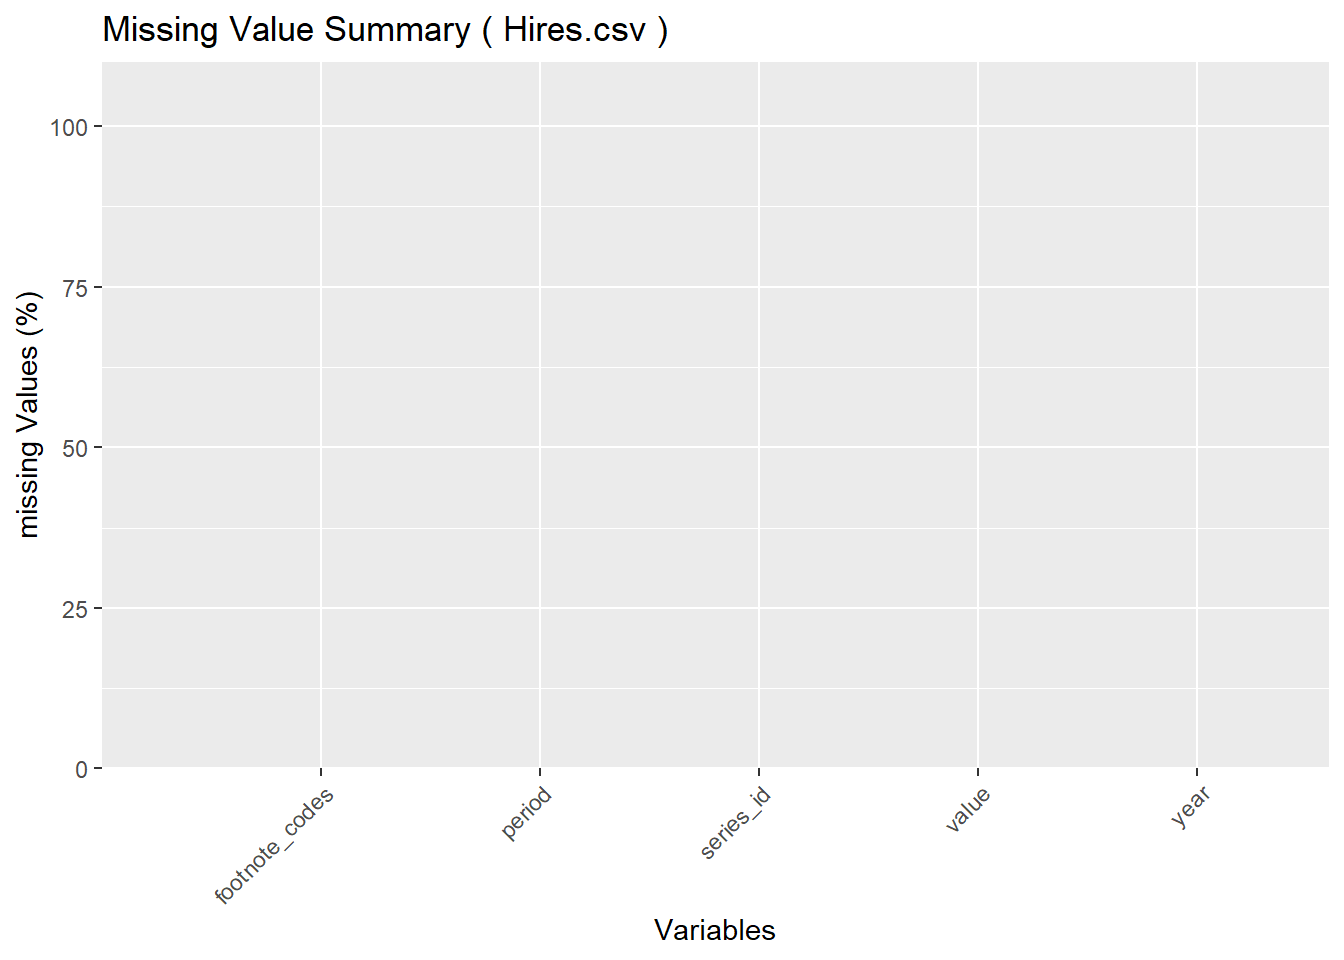
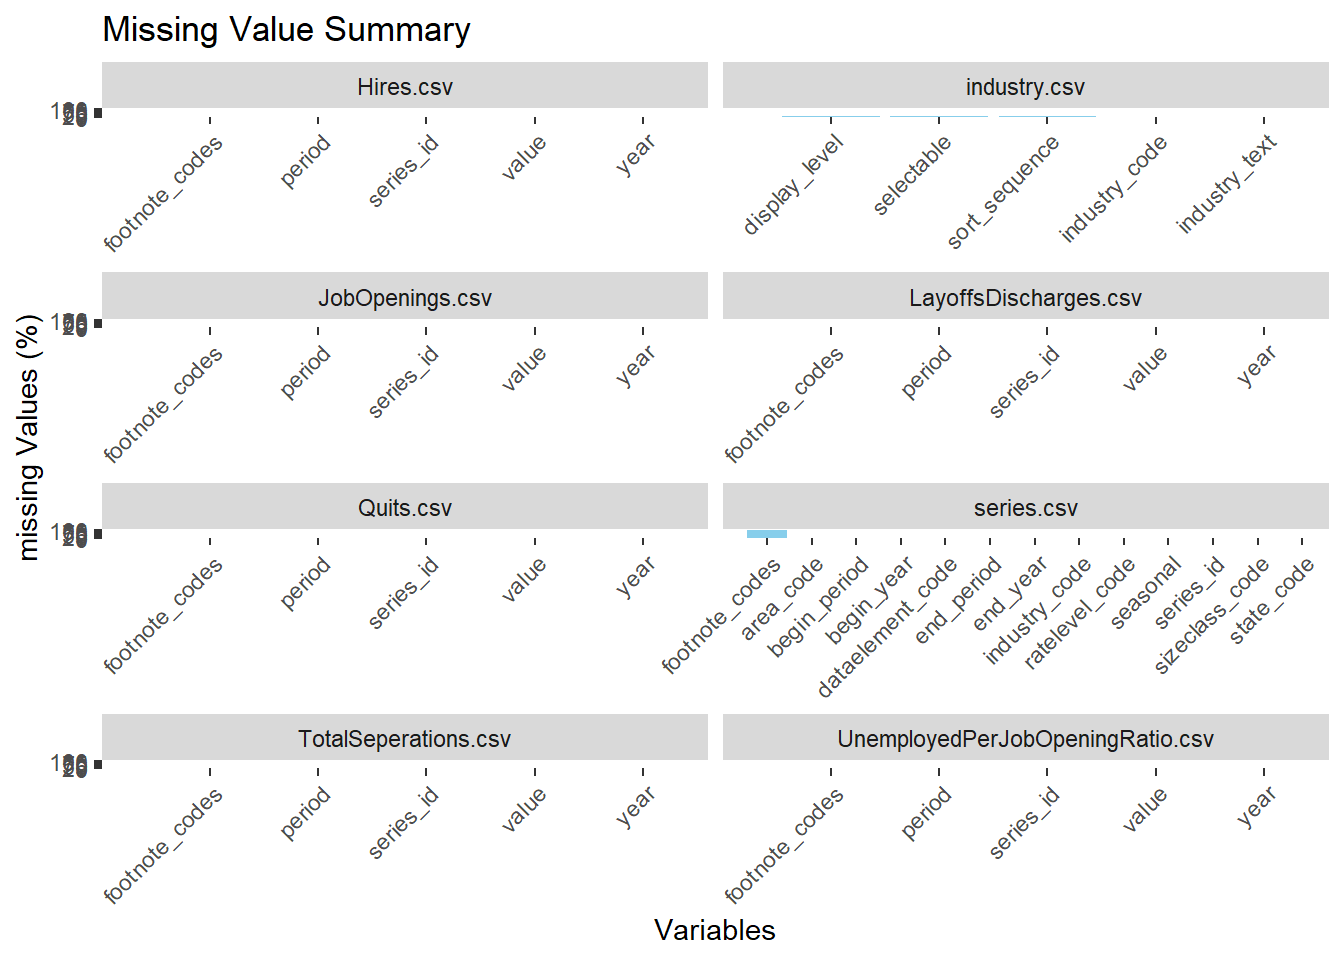
updated render size

diff --git a/docs/data.html b/docs/data.html
@@ -230,7 +230,7 @@ pre > code.sourceCode > span > a:first-child::before { text-decoration: underlin
 <li><p><strong>Data Collection</strong>: As, the dataset is divide into different files, containing job openings, hires, separations, and industry specifics, we collect the files and convert into csv format for further analysis.</p></li>
 <li><p><strong>Preprocessing</strong>: Cleaning and organizing the data. Here we also analyse any missing values in our dataset.</p></li>
 <li><p><strong>Exploratory Analysis</strong>: Identify trends, patterns, and correlations in job data across industries and regions.</p></li>
-<li><p><strong>Addressing Research Questions</strong>:</p>
+<li><p><strong>Addressing Research Questions</strong>: We merge our dataset files to uncover significant trends and relationships among various job analysis metrics. We plan to observe the following:</p>
 <ul>
 <li><strong>Industry Insights</strong>: Identify high-demand industries aligning with skills.</li>
 <li><strong>Regional Variations</strong>: Map job trends across regions for better prospects.</li>
@@ -249,74 +249,47 @@ pre > code.sourceCode > span > a:first-child::before { text-decoration: underlin
 <div class="cell">
 <details>
 <summary>Code</summary>
-<div class="sourceCode cell-code" id="cb1"><pre class="sourceCode r code-with-copy"><code class="sourceCode r"><span id="cb1-1"><a href="#cb1-1" aria-hidden="true" tabindex="-1"></a><span class="fu">library</span>(tidyverse)</span></code><button title="Copy to Clipboard" class="code-copy-button"><i class="bi"></i></button></pre></div>
-</details>
-<div class="cell-output cell-output-stderr">
-<pre><code>── Attaching core tidyverse packages ──────────────────────── tidyverse 2.0.0 ──
-✔ dplyr     1.1.3     ✔ readr     2.1.4
-✔ forcats   1.0.0     ✔ stringr   1.5.0
-✔ ggplot2   3.4.3     ✔ tibble    3.2.1
-✔ lubridate 1.9.2     ✔ tidyr     1.3.0
-✔ purrr     1.0.2     
-── Conflicts ────────────────────────────────────────── tidyverse_conflicts() ──
-✖ dplyr::filter() masks stats::filter()
-✖ dplyr::lag()    masks stats::lag()
-ℹ Use the conflicted package (&lt;http://conflicted.r-lib.org/&gt;) to force all conflicts to become errors</code></pre>
-</div>
-<details>
-<summary>Code</summary>
-<div class="sourceCode cell-code" id="cb3"><pre class="sourceCode r code-with-copy"><code class="sourceCode r"><span id="cb3-1"><a href="#cb3-1" aria-hidden="true" tabindex="-1"></a>folder_path <span class="ot">&lt;-</span> <span class="st">"./data"</span></span>
-<span id="cb3-2"><a href="#cb3-2" aria-hidden="true" tabindex="-1"></a></span>
-<span id="cb3-3"><a href="#cb3-3" aria-hidden="true" tabindex="-1"></a>csv_files <span class="ot">&lt;-</span> <span class="fu">list.files</span>(folder_path, <span class="at">pattern =</span> <span class="st">"</span><span class="sc">\\</span><span class="st">.csv$"</span>, <span class="at">full.names =</span> <span class="cn">TRUE</span>)</span>
-<span id="cb3-4"><a href="#cb3-4" aria-hidden="true" tabindex="-1"></a></span>
-<span id="cb3-5"><a href="#cb3-5" aria-hidden="true" tabindex="-1"></a><span class="cf">for</span> (file <span class="cf">in</span> csv_files) {</span>
-<span id="cb3-6"><a href="#cb3-6" aria-hidden="true" tabindex="-1"></a>  data <span class="ot">&lt;-</span> <span class="fu">read.csv</span>(file)</span>
-<span id="cb3-7"><a href="#cb3-7" aria-hidden="true" tabindex="-1"></a></span>
-<span id="cb3-8"><a href="#cb3-8" aria-hidden="true" tabindex="-1"></a>  csv_file_name <span class="ot">&lt;-</span> <span class="fu">strsplit</span>(file, <span class="st">"/"</span>)[[<span class="dv">1</span>]][<span class="dv">3</span>]</span>
-<span id="cb3-9"><a href="#cb3-9" aria-hidden="true" tabindex="-1"></a>  <span class="co"># print(csv_file_name)</span></span>
-<span id="cb3-10"><a href="#cb3-10" aria-hidden="true" tabindex="-1"></a></span>
-<span id="cb3-11"><a href="#cb3-11" aria-hidden="true" tabindex="-1"></a>  missing_summary <span class="ot">&lt;-</span> data <span class="sc">%&gt;%</span></span>
-<span id="cb3-12"><a href="#cb3-12" aria-hidden="true" tabindex="-1"></a>    <span class="fu">summarise_all</span>(<span class="sc">~</span> <span class="fu">mean</span>(<span class="fu">is.na</span>(.)) <span class="sc">*</span> <span class="dv">100</span>) <span class="sc">%&gt;%</span></span>
-<span id="cb3-13"><a href="#cb3-13" aria-hidden="true" tabindex="-1"></a>    <span class="fu">gather</span>(<span class="at">key =</span> <span class="st">"variable"</span>, <span class="at">value =</span> <span class="st">"missing_percentage"</span>) <span class="sc">%&gt;%</span></span>
-<span id="cb3-14"><a href="#cb3-14" aria-hidden="true" tabindex="-1"></a>    <span class="fu">arrange</span>(<span class="fu">desc</span>(missing_percentage))</span>
-<span id="cb3-15"><a href="#cb3-15" aria-hidden="true" tabindex="-1"></a></span>
-<span id="cb3-16"><a href="#cb3-16" aria-hidden="true" tabindex="-1"></a>  missing_value_graph <span class="ot">&lt;-</span> <span class="fu">ggplot</span>(missing_summary, <span class="fu">aes</span>(<span class="at">x =</span> <span class="fu">reorder</span>(variable, <span class="sc">-</span>missing_percentage), <span class="at">y =</span> missing_percentage)) <span class="sc">+</span></span>
-<span id="cb3-17"><a href="#cb3-17" aria-hidden="true" tabindex="-1"></a>    <span class="fu">geom_bar</span>(<span class="at">stat =</span> <span class="st">"identity"</span>, <span class="at">fill =</span> <span class="st">"skyblue"</span>, <span class="at">width=</span><span class="fl">0.5</span>) <span class="sc">+</span></span>
-<span id="cb3-18"><a href="#cb3-18" aria-hidden="true" tabindex="-1"></a>    <span class="fu">geom_text</span>(<span class="at">data =</span> <span class="fu">subset</span>(missing_summary, missing_percentage <span class="sc">!=</span> <span class="dv">0</span>),</span>
-<span id="cb3-19"><a href="#cb3-19" aria-hidden="true" tabindex="-1"></a>              <span class="fu">aes</span>(<span class="at">label =</span> <span class="fu">round</span>(missing_percentage, <span class="dv">1</span>)), <span class="at">vjust =</span> <span class="sc">-</span><span class="fl">0.5</span>, <span class="at">size =</span> <span class="dv">3</span>) <span class="sc">+</span></span>
-<span id="cb3-20"><a href="#cb3-20" aria-hidden="true" tabindex="-1"></a>    <span class="fu">labs</span>(<span class="at">title =</span> <span class="fu">paste</span>(<span class="st">"Missing Value Summary ("</span>, csv_file_name,<span class="st">")"</span>),</span>
-<span id="cb3-21"><a href="#cb3-21" aria-hidden="true" tabindex="-1"></a>         <span class="at">x =</span> <span class="st">"Variables"</span>,</span>
-<span id="cb3-22"><a href="#cb3-22" aria-hidden="true" tabindex="-1"></a>         <span class="at">y =</span> <span class="st">"missing Values (%)"</span>)<span class="sc">+</span></span>
-<span id="cb3-23"><a href="#cb3-23" aria-hidden="true" tabindex="-1"></a>    <span class="fu">theme</span>(<span class="at">axis.text.x =</span> <span class="fu">element_text</span>(<span class="at">angle =</span> <span class="dv">45</span>, <span class="at">hjust =</span> <span class="dv">1</span>))<span class="sc">+</span></span>
-<span id="cb3-24"><a href="#cb3-24" aria-hidden="true" tabindex="-1"></a>    <span class="fu">expand_limits</span>(<span class="at">x =</span> <span class="dv">0</span>, <span class="at">y =</span> <span class="dv">110</span>)<span class="sc">+</span></span>
-<span id="cb3-25"><a href="#cb3-25" aria-hidden="true" tabindex="-1"></a>    <span class="fu">scale_y_continuous</span>(<span class="at">expand =</span><span class="fu">c</span>(<span class="dv">0</span>,<span class="dv">0</span>))</span>
-<span id="cb3-26"><a href="#cb3-26" aria-hidden="true" tabindex="-1"></a></span>
-<span id="cb3-27"><a href="#cb3-27" aria-hidden="true" tabindex="-1"></a>  <span class="fu">print</span>(missing_value_graph )</span>
-<span id="cb3-28"><a href="#cb3-28" aria-hidden="true" tabindex="-1"></a>}</span></code><button title="Copy to Clipboard" class="code-copy-button"><i class="bi"></i></button></pre></div>
+<div class="sourceCode cell-code" id="cb1"><pre class="sourceCode r code-with-copy"><code class="sourceCode r"><span id="cb1-1"><a href="#cb1-1" aria-hidden="true" tabindex="-1"></a><span class="fu">suppressPackageStartupMessages</span>({</span>
+<span id="cb1-2"><a href="#cb1-2" aria-hidden="true" tabindex="-1"></a>  <span class="fu">library</span>(tidyverse)</span>
+<span id="cb1-3"><a href="#cb1-3" aria-hidden="true" tabindex="-1"></a>})</span>
+<span id="cb1-4"><a href="#cb1-4" aria-hidden="true" tabindex="-1"></a></span>
+<span id="cb1-5"><a href="#cb1-5" aria-hidden="true" tabindex="-1"></a>folder_path <span class="ot">&lt;-</span> <span class="st">"./data"</span></span>
+<span id="cb1-6"><a href="#cb1-6" aria-hidden="true" tabindex="-1"></a></span>
+<span id="cb1-7"><a href="#cb1-7" aria-hidden="true" tabindex="-1"></a>csv_files <span class="ot">&lt;-</span> <span class="fu">list.files</span>(folder_path, <span class="at">pattern =</span> <span class="st">"</span><span class="sc">\\</span><span class="st">.csv$"</span>, <span class="at">full.names =</span> <span class="cn">TRUE</span>)</span>
+<span id="cb1-8"><a href="#cb1-8" aria-hidden="true" tabindex="-1"></a></span>
+<span id="cb1-9"><a href="#cb1-9" aria-hidden="true" tabindex="-1"></a>all_missing_summary <span class="ot">&lt;-</span> <span class="fu">list</span>()</span>
+<span id="cb1-10"><a href="#cb1-10" aria-hidden="true" tabindex="-1"></a></span>
+<span id="cb1-11"><a href="#cb1-11" aria-hidden="true" tabindex="-1"></a><span class="cf">for</span> (file <span class="cf">in</span> csv_files) {</span>
+<span id="cb1-12"><a href="#cb1-12" aria-hidden="true" tabindex="-1"></a>  data <span class="ot">&lt;-</span> <span class="fu">read.csv</span>(file)</span>
+<span id="cb1-13"><a href="#cb1-13" aria-hidden="true" tabindex="-1"></a></span>
+<span id="cb1-14"><a href="#cb1-14" aria-hidden="true" tabindex="-1"></a>  csv_file_name <span class="ot">&lt;-</span> <span class="fu">strsplit</span>(file, <span class="st">"/"</span>)[[<span class="dv">1</span>]][<span class="dv">3</span>]</span>
+<span id="cb1-15"><a href="#cb1-15" aria-hidden="true" tabindex="-1"></a></span>
+<span id="cb1-16"><a href="#cb1-16" aria-hidden="true" tabindex="-1"></a>  missing_summary <span class="ot">&lt;-</span> data <span class="sc">%&gt;%</span></span>
+<span id="cb1-17"><a href="#cb1-17" aria-hidden="true" tabindex="-1"></a>    <span class="fu">summarise_all</span>(<span class="sc">~</span> <span class="fu">mean</span>(<span class="fu">is.na</span>(.)) <span class="sc">*</span> <span class="dv">100</span>) <span class="sc">%&gt;%</span></span>
+<span id="cb1-18"><a href="#cb1-18" aria-hidden="true" tabindex="-1"></a>    <span class="fu">gather</span>(<span class="at">key =</span> <span class="st">"variable"</span>, <span class="at">value =</span> <span class="st">"missing_percentage"</span>) <span class="sc">%&gt;%</span></span>
+<span id="cb1-19"><a href="#cb1-19" aria-hidden="true" tabindex="-1"></a>    <span class="fu">arrange</span>(<span class="fu">desc</span>(missing_percentage))</span>
+<span id="cb1-20"><a href="#cb1-20" aria-hidden="true" tabindex="-1"></a></span>
+<span id="cb1-21"><a href="#cb1-21" aria-hidden="true" tabindex="-1"></a>  all_missing_summary[[csv_file_name]] <span class="ot">&lt;-</span> missing_summary</span>
+<span id="cb1-22"><a href="#cb1-22" aria-hidden="true" tabindex="-1"></a>}</span>
+<span id="cb1-23"><a href="#cb1-23" aria-hidden="true" tabindex="-1"></a></span>
+<span id="cb1-24"><a href="#cb1-24" aria-hidden="true" tabindex="-1"></a>combined_missing_summary <span class="ot">&lt;-</span> <span class="fu">bind_rows</span>(all_missing_summary, <span class="at">.id =</span> <span class="st">"csv_file_name"</span>)</span>
+<span id="cb1-25"><a href="#cb1-25" aria-hidden="true" tabindex="-1"></a></span>
+<span id="cb1-26"><a href="#cb1-26" aria-hidden="true" tabindex="-1"></a>missing_value_graph <span class="ot">&lt;-</span> <span class="fu">ggplot</span>(combined_missing_summary, <span class="fu">aes</span>(<span class="at">x =</span> <span class="fu">reorder</span>(variable, <span class="sc">-</span>missing_percentage), <span class="at">y =</span> missing_percentage)) <span class="sc">+</span></span>
+<span id="cb1-27"><a href="#cb1-27" aria-hidden="true" tabindex="-1"></a>  <span class="fu">geom_bar</span>(<span class="at">stat =</span> <span class="st">"identity"</span>, <span class="at">fill =</span> <span class="st">"skyblue"</span>) <span class="sc">+</span></span>
+<span id="cb1-28"><a href="#cb1-28" aria-hidden="true" tabindex="-1"></a>  <span class="fu">geom_text</span>(<span class="at">data =</span> <span class="fu">subset</span>(combined_missing_summary, missing_percentage <span class="sc">!=</span> <span class="dv">0</span>),</span>
+<span id="cb1-29"><a href="#cb1-29" aria-hidden="true" tabindex="-1"></a>            <span class="fu">aes</span>(<span class="at">label =</span> <span class="fu">round</span>(missing_percentage, <span class="dv">1</span>)), <span class="at">vjust =</span> <span class="sc">-</span><span class="fl">0.3</span>, <span class="at">size =</span> <span class="dv">3</span>) <span class="sc">+</span></span>
+<span id="cb1-30"><a href="#cb1-30" aria-hidden="true" tabindex="-1"></a>  <span class="fu">labs</span>(<span class="at">title =</span> <span class="st">"Missing Value Summary"</span>,</span>
+<span id="cb1-31"><a href="#cb1-31" aria-hidden="true" tabindex="-1"></a>       <span class="at">x =</span> <span class="st">"Variables"</span>,</span>
+<span id="cb1-32"><a href="#cb1-32" aria-hidden="true" tabindex="-1"></a>       <span class="at">y =</span> <span class="st">"missing Values (%)"</span>) <span class="sc">+</span></span>
+<span id="cb1-33"><a href="#cb1-33" aria-hidden="true" tabindex="-1"></a>  <span class="fu">theme</span>(<span class="at">axis.text.x =</span> <span class="fu">element_text</span>(<span class="at">angle =</span> <span class="dv">45</span>, <span class="at">hjust =</span> <span class="dv">1</span>), <span class="at">plot.title=</span><span class="fu">element_text</span>(<span class="at">hjust=</span><span class="fl">0.5</span>)) <span class="sc">+</span></span>
+<span id="cb1-34"><a href="#cb1-34" aria-hidden="true" tabindex="-1"></a>  <span class="fu">expand_limits</span>(<span class="at">x =</span> <span class="dv">0</span>, <span class="at">y =</span> <span class="dv">110</span>) <span class="sc">+</span></span>
+<span id="cb1-35"><a href="#cb1-35" aria-hidden="true" tabindex="-1"></a>  <span class="fu">scale_y_continuous</span>(<span class="at">expand =</span> <span class="fu">c</span>(<span class="dv">0</span>, <span class="dv">0</span>)) <span class="sc">+</span></span>
+<span id="cb1-36"><a href="#cb1-36" aria-hidden="true" tabindex="-1"></a>  <span class="fu">facet_wrap</span>(<span class="sc">~</span>csv_file_name, <span class="at">scales =</span> <span class="st">"free"</span>, <span class="at">ncol=</span><span class="dv">2</span>)</span>
+<span id="cb1-37"><a href="#cb1-37" aria-hidden="true" tabindex="-1"></a></span>
+<span id="cb1-38"><a href="#cb1-38" aria-hidden="true" tabindex="-1"></a><span class="fu">print</span>(missing_value_graph)</span></code><button title="Copy to Clipboard" class="code-copy-button"><i class="bi"></i></button></pre></div>
 </details>
 <div class="cell-output-display">
-<p><img src="data_files/figure-html/unnamed-chunk-1-1.png" class="img-fluid" width="672"></p>
-</div>
-<div class="cell-output-display">
-<p><img src="data_files/figure-html/unnamed-chunk-1-2.png" class="img-fluid" width="672"></p>
-</div>
-<div class="cell-output-display">
-<p><img src="data_files/figure-html/unnamed-chunk-1-3.png" class="img-fluid" width="672"></p>
-</div>
-<div class="cell-output-display">
-<p><img src="data_files/figure-html/unnamed-chunk-1-4.png" class="img-fluid" width="672"></p>
-</div>
-<div class="cell-output-display">
-<p><img src="data_files/figure-html/unnamed-chunk-1-5.png" class="img-fluid" width="672"></p>
-</div>
-<div class="cell-output-display">
-<p><img src="data_files/figure-html/unnamed-chunk-1-6.png" class="img-fluid" width="672"></p>
-</div>
-<div class="cell-output-display">
-<p><img src="data_files/figure-html/unnamed-chunk-1-7.png" class="img-fluid" width="672"></p>
-</div>
-<div class="cell-output-display">
-<p><img src="data_files/figure-html/unnamed-chunk-1-8.png" class="img-fluid" width="672"></p>
+<p><img src="data_files/figure-html/chunk_name-1.png" class="img-fluid" width="768"></p>
 </div>
 </div>
 
